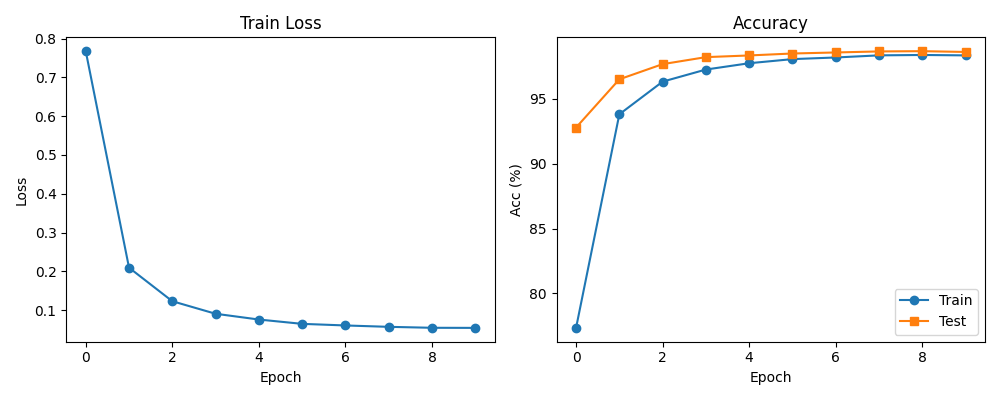
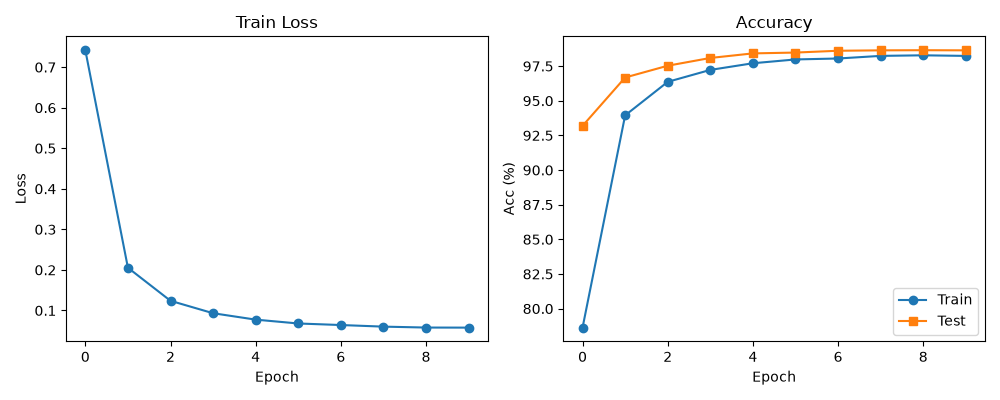
chore(results): add MNIST run; measured accuracy is 98.64%, not 99%

diff --git a/results/v2/make_summary.py b/results/v2/make_summary.py
@@ -93,7 +93,7 @@ CUDA roadmap 全表見 [`cuda_roadmap/results.md`](../../cuda_roadmap/results.md
 - **Triton 版本取決於環境。** GPU 環境要用 3.2 才符合 PyTorch 2.6；沒有 GPU 時 3.2 會在 import 階段失敗，需要較新版本。
 - **CI 尚未實際跑過。** CI 用 Linux 和不鎖版本的 Triton，這裡只在 Windows 上模擬過 pytest 步驟。
 - **Nsight 沒有執行**（`ncu` 不在 PATH）。瓶頸解釋來自 roofline，不是硬體計數器。
-- **`mnist_acc_loss.png` 沒有重新產生**（全程使用 `--skip-mnist`），README 也沒有引用。
+- **MNIST 實測 98.64%，不是舊文件寫的 99%**（10 個 epoch，單次訓練，`logs/mnist.log`）。README 沒有引用這個數字。
 - **`docs/benchmarks.md` 保留舊數字**，頁首已標明是歷史紀錄。
 - **`profiling/roofline_analysis/plot_roofline.py` 只更新了 fallback 值**，這次沒有執行。
 - **量測條件。** 插電和最佳效能模式有確認；是否有其他程式佔用 GPU，只在開始時檢查過一次。

diff --git a/results/v2/SUMMARY.md b/results/v2/SUMMARY.md
@@ -138,7 +138,7 @@ CUDA roadmap 全表見 [`cuda_roadmap/results.md`](../../cuda_roadmap/results.md
 - **Triton 版本取決於環境。** GPU 環境要用 3.2 才符合 PyTorch 2.6；沒有 GPU 時 3.2 會在 import 階段失敗，需要較新版本。
 - **CI 尚未實際跑過。** CI 用 Linux 和不鎖版本的 Triton，這裡只在 Windows 上模擬過 pytest 步驟。
 - **Nsight 沒有執行**（`ncu` 不在 PATH）。瓶頸解釋來自 roofline，不是硬體計數器。
-- **`mnist_acc_loss.png` 沒有重新產生**（全程使用 `--skip-mnist`），README 也沒有引用。
+- **MNIST 實測 98.64%，不是舊文件寫的 99%**（10 個 epoch，單次訓練，`logs/mnist.log`）。README 沒有引用這個數字。
 - **`docs/benchmarks.md` 保留舊數字**，頁首已標明是歷史紀錄。
 - **`profiling/roofline_analysis/plot_roofline.py` 只更新了 fallback 值**，這次沒有執行。
 - **量測條件。** 插電和最佳效能模式有確認；是否有其他程式佔用 GPU，只在開始時檢查過一次。
